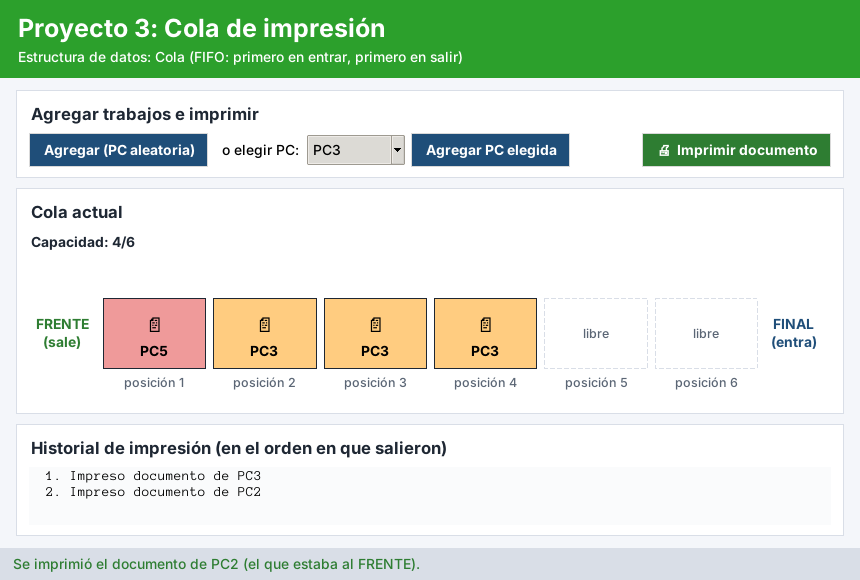
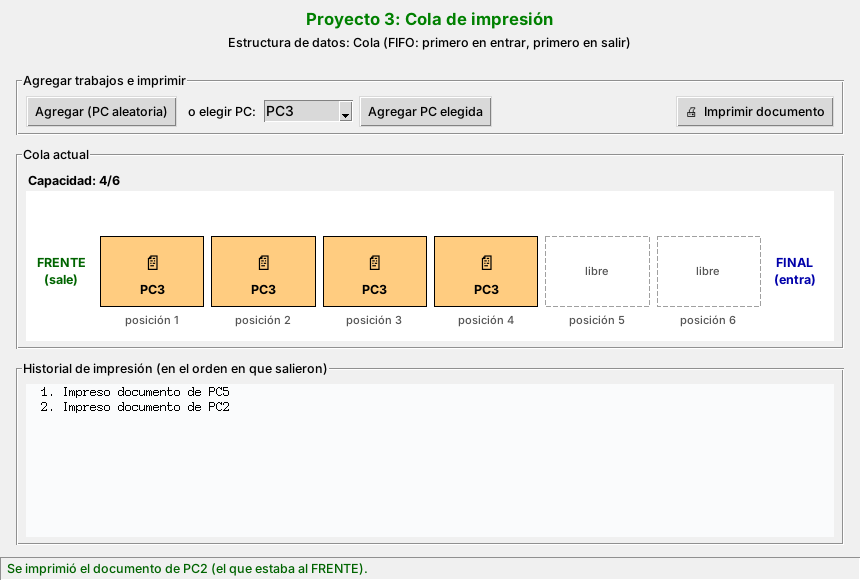
Interfaz con estilo clásico de Tkinter (como la de Resistencias)

diff --git a/interfaz/estilos.py b/interfaz/estilos.py
@@ -1,93 +1,73 @@
 """Colores, fuentes y pequeños ayudantes de Tkinter compartidos por todas las ventanas.
 
-Tenerlos en un solo lugar hace que las 6 ventanas se vean iguales y que,
-si se quiere cambiar un color, solo se cambie aquí.
+Estilo clásico de Tkinter (fondo gris, botones normales, recuadros con título),
+parecido a la ventana del proyecto de Resistencias. Tenerlo en un solo lugar
+hace que las ventanas se vean iguales y que un cambio se haga solo aquí.
 """
 
 import tkinter as tk
-from tkinter import ttk
 
 # ----------------------------------------------------------------- COLORES
-FONDO = "#F4F6FA"          # fondo general de las ventanas
-TARJETA = "#FFFFFF"        # fondo de los paneles
-BORDE = "#D9DEE7"
-TEXTO = "#1E2733"
-TEXTO_SUAVE = "#5B6675"
-PRIMARIO = "#1F4E79"       # azul de los botones principales
-PRIMARIO_HOVER = "#163A5A"
-EXITO = "#2E7D32"
-PELIGRO = "#C62828"
-RESALTE = "#F9A825"        # amarillo para resaltar (ruta, nodo encontrado, etc.)
+FONDO = "#F0F0F0"          # gris clásico de las ventanas de Windows
+TARJETA = "#F0F0F0"        # fondo de los recuadros (igual que la ventana)
+BORDE = "#A0A0A0"
+TEXTO = "#000000"
+TEXTO_SUAVE = "#555555"
+PRIMARIO = "#0000AA"
+EXITO = "#006400"
+PELIGRO = "#B00000"
+RESALTE = "#FFFF00"        # amarillo para resaltar (tope, nodo encontrado, ruta...)
 
-# Un color por proyecto (se usa en el menú y en el encabezado de cada ventana)
+# Un color por proyecto (se usa en el título de cada ventana y en los dibujos)
 COLOR_PROYECTO = {
-    1: "#1F77B4",  # Navegador - Pila
-    2: "#8C564B",  # Resistencias - Arreglos
-    3: "#2CA02C",  # Cola de impresión - Cola
-    4: "#D62728",  # Carrito - Listas
-    5: "#9467BD",  # Árbol binario
-    6: "#FF7F0E",  # Pueblos Mágicos - Grafo
+    1: "#0000FF",  # Navegador - Pila
+    2: "#8B4513",  # Resistencias - Arreglos
+    3: "#008000",  # Cola de impresión - Cola
+    4: "#FF0000",  # Carrito - Listas
+    5: "#800080",  # Árbol binario
+    6: "#FF8C00",  # Pueblos Mágicos - Grafo
 }
 
 # ----------------------------------------------------------------- FUENTES
 FUENTE = "Segoe UI"
-F_TITULO = (FUENTE, 18, "bold")
-F_SUBTITULO = (FUENTE, 12, "bold")
-F_NORMAL = (FUENTE, 10)
-F_NEGRITA = (FUENTE, 10, "bold")
-F_PEQUENA = (FUENTE, 9)
-F_MONO = ("Consolas", 10)
+F_TITULO = (FUENTE, 12, "bold")
+F_SUBTITULO = (FUENTE, 10, "bold")
+F_NORMAL = (FUENTE, 9)
+F_NEGRITA = (FUENTE, 9, "bold")
+F_PEQUENA = (FUENTE, 8)
+F_MONO = ("Consolas", 9)
 
 
 def configurar_ttk(raiz: tk.Misc) -> None:
-    """Da a los Treeview y Combobox de ttk un estilo parecido al resto."""
-    estilo = ttk.Style(raiz)
-    try:
-        estilo.theme_use("clam")
-    except tk.TclError:
-        pass
-    estilo.configure("Treeview", font=F_NORMAL, rowheight=24, background=TARJETA,
-                     fieldbackground=TARJETA, foreground=TEXTO)
-    estilo.configure("Treeview.Heading", font=F_NEGRITA, background=BORDE, foreground=TEXTO)
-    estilo.map("Treeview", background=[("selected", PRIMARIO)],
-               foreground=[("selected", "white")])
-    estilo.configure("TCombobox", padding=4)
+    """Se deja el tema de ttk que trae el sistema (el normal de Windows)."""
+    return None
 
 
 def encabezado(ventana: tk.Misc, numero: int, titulo: str, estructura: str) -> tk.Frame:
-    """Barra de color con el número, nombre del proyecto y la estructura usada."""
-    barra = tk.Frame(ventana, bg=COLOR_PROYECTO[numero], padx=16, pady=10)
+    """Título sencillo con el número, nombre del proyecto y la estructura usada."""
+    barra = tk.Frame(ventana, bg=FONDO, padx=10, pady=6)
     barra.pack(fill="x")
     tk.Label(barra, text=f"Proyecto {numero}: {titulo}", font=F_TITULO,
-             bg=COLOR_PROYECTO[numero], fg="white").pack(anchor="w")
+             bg=FONDO, fg=COLOR_PROYECTO[numero]).pack()
     tk.Label(barra, text=f"Estructura de datos: {estructura}", font=F_NORMAL,
-             bg=COLOR_PROYECTO[numero], fg="white").pack(anchor="w")
+             bg=FONDO, fg=TEXTO).pack()
     return barra
 
 
-def boton(padre: tk.Misc, texto: str, comando, color: str = PRIMARIO, **kwargs) -> tk.Button:
-    """Botón plano con color de fondo y texto blanco."""
-    b = tk.Button(padre, text=texto, command=comando, bg=color, fg="white",
-                  activebackground=PRIMARIO_HOVER, activeforeground="white",
-                  font=F_NEGRITA, relief="flat", bd=0, padx=12, pady=6,
-                  cursor="hand2", disabledforeground="#E0E0E0", **kwargs)
-    return b
+def boton(padre: tk.Misc, texto: str, comando, color: str = None, **kwargs) -> tk.Button:
+    """Botón normal de Tkinter (el parámetro color se ignora para mantener el estilo clásico)."""
+    return tk.Button(padre, text=texto, command=comando, font=F_NORMAL, padx=6, **kwargs)
 
 
-def panel(padre: tk.Misc, titulo: str = "") -> tk.Frame:
-    """Recuadro blanco con borde y un título opcional."""
-    marco = tk.Frame(padre, bg=TARJETA, highlightbackground=BORDE,
-                     highlightthickness=1, padx=12, pady=10)
-    if titulo:
-        tk.Label(marco, text=titulo, font=F_SUBTITULO, bg=TARJETA,
-                 fg=TEXTO).pack(anchor="w", pady=(0, 6))
-    return marco
+def panel(padre: tk.Misc, titulo: str = "") -> tk.LabelFrame:
+    """Recuadro clásico con título (LabelFrame)."""
+    return tk.LabelFrame(padre, text=titulo, font=F_NORMAL, bg=TARJETA, padx=8, pady=6)
 
 
 def barra_estado(ventana: tk.Misc) -> tk.Label:
     """Etiqueta inferior donde cada ventana escribe lo que acaba de pasar."""
     etiqueta = tk.Label(ventana, text="Listo.", anchor="w", font=F_NORMAL,
-                        bg=BORDE, fg=TEXTO, padx=12, pady=6)
+                        bg=FONDO, fg=TEXTO, relief="sunken", bd=1, padx=6, pady=2)
     etiqueta.pack(fill="x", side="bottom")
     return etiqueta
 

diff --git a/Main1.py b/Main1.py
@@ -50,58 +50,34 @@ class MenuPrincipal:
     def __init__(self):
         self.raiz = tk.Tk()
         self.raiz.title("Proyecto Integrador - Estructuras de Datos")
-        self.raiz.geometry("980x660")
-        self.raiz.minsize(900, 640)
+        self.raiz.geometry("520x420")
         self.raiz.configure(bg=e.FONDO)
         e.configurar_ttk(self.raiz)
 
         self.ventanas = {}           # número de proyecto -> ventana abierta
         self.proceso_resistencias = None
 
-        # Encabezado
-        arriba = tk.Frame(self.raiz, bg=e.PRIMARIO, padx=24, pady=16)
-        arriba.pack(fill="x")
-        tk.Label(arriba, text="Proyecto Integrador de Estructuras de Datos",
-                 font=e.F_TITULO, bg=e.PRIMARIO, fg="white").pack(anchor="w")
-        tk.Label(arriba, text="Elige un proyecto para abrirlo. Puedes tener varios abiertos a la vez.",
-                 font=e.F_NORMAL, bg=e.PRIMARIO, fg="white").pack(anchor="w")
+        tk.Label(self.raiz, text="Proyecto Integrador de Estructuras de Datos",
+                 font=e.F_TITULO, bg=e.FONDO).pack(pady=(12, 2))
+        tk.Label(self.raiz, text="Selecciona un proyecto:", font=e.F_NORMAL,
+                 bg=e.FONDO).pack(pady=(0, 8))
 
-        # Tarjetas 3 x 2
-        rejilla = tk.Frame(self.raiz, bg=e.FONDO, padx=18, pady=18)
-        rejilla.pack(fill="both", expand=True)
-        for i, datos in enumerate(PROYECTOS):
-            fila, columna = divmod(i, 3)
-            rejilla.columnconfigure(columna, weight=1, uniform="col")
-            rejilla.rowconfigure(fila, weight=1, uniform="fila")
-            self._tarjeta(rejilla, *datos).grid(row=fila, column=columna, sticky="nsew",
-                                                padx=8, pady=8)
+        # Un botón por proyecto, uno debajo del otro
+        marco = tk.Frame(self.raiz, bg=e.FONDO)
+        marco.pack()
+        for numero, titulo, estructura, descripcion in PROYECTOS:
+            tk.Button(marco, text=f"{numero}. {titulo}", width=28, font=e.F_NORMAL,
+                      fg=e.COLOR_PROYECTO[numero],
+                      command=lambda n=numero: self.abrir(n)).grid(
+                row=numero - 1, column=0, padx=5, pady=4, sticky="w")
+            tk.Label(marco, text=estructura, font=e.F_NORMAL, bg=e.FONDO,
+                     anchor="w").grid(row=numero - 1, column=1, padx=5, sticky="w")
 
-        # Pie
-        abajo = tk.Frame(self.raiz, bg=e.FONDO, padx=26)
-        abajo.pack(fill="x", pady=(0, 14))
-        tk.Label(abajo, text="Tip: con  python Main1.py --consola  se corren las versiones "
-                             "originales en la terminal.",
-                 font=e.F_PEQUENA, bg=e.FONDO, fg=e.TEXTO_SUAVE).pack(side="left")
-        e.boton(abajo, "Salir", self.raiz.destroy, color=e.PELIGRO).pack(side="right")
-
-    def _tarjeta(self, padre, numero, titulo, estructura, descripcion):
-        color = e.COLOR_PROYECTO[numero]
-        tarjeta = tk.Frame(padre, bg=e.TARJETA, highlightbackground=e.BORDE, highlightthickness=1)
-        tk.Frame(tarjeta, bg=color, height=6).pack(fill="x")
-        contenido = tk.Frame(tarjeta, bg=e.TARJETA, padx=14, pady=10)
-        contenido.pack(fill="both", expand=True)
-
-        tk.Label(contenido, text=str(numero), font=(e.FUENTE, 26, "bold"), bg=e.TARJETA,
-                 fg=color).pack(anchor="w")
-        tk.Label(contenido, text=titulo, font=e.F_SUBTITULO, bg=e.TARJETA,
-                 fg=e.TEXTO).pack(anchor="w")
-        tk.Label(contenido, text=estructura, font=e.F_NEGRITA, bg=e.TARJETA,
-                 fg=color).pack(anchor="w")
-        tk.Label(contenido, text=descripcion, font=e.F_PEQUENA, bg=e.TARJETA, fg=e.TEXTO_SUAVE,
-                 wraplength=260, justify="left").pack(anchor="w", pady=(4, 8))
-        e.boton(contenido, "Abrir", lambda: self.abrir(numero),
-                color=color).pack(anchor="w", side="bottom")
-        return tarjeta
+        tk.Label(self.raiz, text="Tip: con  python Main1.py --consola  se corren\n"
+                                 "las versiones originales en la terminal.",
+                 font=e.F_PEQUENA, bg=e.FONDO, fg=e.TEXTO_SUAVE).pack(pady=(14, 6))
+        tk.Button(self.raiz, text="Salir", width=10, font=e.F_NORMAL,
+                  command=self.raiz.destroy).pack(pady=6)
 
     def abrir(self, numero):
         # El proyecto 2 ya era una ventana Tkinter completa: se ejecuta su

diff --git a/interfaz/ventana_pueblos.py b/interfaz/ventana_pueblos.py
@@ -76,7 +76,7 @@ class VentanaPueblos:
         # ------------------------------------------------ dibujo del grafo
         der = e.panel(cuerpo, "Mapa del grafo (distancias en km)")
         der.pack(side="left", fill="both", expand=True)
-        self.canvas = tk.Canvas(der, bg=e.TARJETA, highlightthickness=0)
+        self.canvas = tk.Canvas(der, bg="white", highlightthickness=0)
         self.canvas.pack(fill="both", expand=True)
         self.canvas.bind("<Configure>", lambda _evento: self.dibujar())
 
@@ -141,7 +141,7 @@ class VentanaPueblos:
                 c.create_line(x1, y1, x2, y2, width=5 if en_ruta else 2,
                               fill=e.COLOR_PROYECTO[6] if en_ruta else "#B0BEC5")
                 mx, my = (x1 + x2) / 2, (y1 + y2) / 2
-                c.create_rectangle(mx - 22, my - 10, mx + 22, my + 10, fill=e.TARJETA,
+                c.create_rectangle(mx - 22, my - 10, mx + 22, my + 10, fill="white",
                                    outline=e.COLOR_PROYECTO[6] if en_ruta else e.BORDE)
                 c.create_text(mx, my, text=f"{km_texto(arista.distancia_km)} km",
                               font=e.F_PEQUENA, fill=e.TEXTO)

diff --git a/interfaz/ventana_arbol.py b/interfaz/ventana_arbol.py
@@ -69,7 +69,7 @@ class VentanaArbol:
         self.lbl_resultado = tk.Label(der, text="", bg=e.TARJETA, font=e.F_MONO,
                                       fg=e.PRIMARIO, anchor="w", justify="left", wraplength=640)
         self.lbl_resultado.pack(fill="x")
-        self.canvas = tk.Canvas(der, bg=e.TARJETA, highlightthickness=0)
+        self.canvas = tk.Canvas(der, bg="white", highlightthickness=0)
         self.canvas.pack(fill="both", expand=True)
         self.canvas.bind("<Configure>", lambda _evento: self.dibujar())
 

diff --git a/interfaz/ventana_navegador.py b/interfaz/ventana_navegador.py
@@ -90,7 +90,7 @@ class VentanaNavegador:
     def _crear_pila(self, padre, titulo):
         marco = e.panel(padre, titulo)
         marco.pack(side="left", fill="both", expand=True, padx=(0, 8))
-        canvas = tk.Canvas(marco, bg=e.TARJETA, highlightthickness=0,
+        canvas = tk.Canvas(marco, bg="white", highlightthickness=0,
                            height=ALTO_CAJA * MAX_CAJAS + 20)
         canvas.pack(fill="both", expand=True)
         canvas.bind("<Configure>", lambda _evento: self.actualizar())

diff --git a/interfaz/ventana_cola.py b/interfaz/ventana_cola.py
@@ -52,7 +52,7 @@ class VentanaCola:
         dibujo.pack(fill="x", pady=10)
         self.lbl_capacidad = tk.Label(dibujo, font=e.F_NEGRITA, bg=e.TARJETA, fg=e.TEXTO)
         self.lbl_capacidad.pack(anchor="w")
-        self.canvas = tk.Canvas(dibujo, height=150, bg=e.TARJETA, highlightthickness=0)
+        self.canvas = tk.Canvas(dibujo, height=150, bg="white", highlightthickness=0)
         self.canvas.pack(fill="x")
         self.canvas.bind("<Configure>", lambda _evento: self.dibujar())
 

diff --git a/docs/arquitectura.md b/docs/arquitectura.md
@@ -34,8 +34,8 @@ A esto se le llama **separar la lógica de la presentación**: la estructura de 
 
 ## 3. `Main1.py` paso a paso
 
-1. **`PROYECTOS`**: lista con número, nombre, estructura y descripción de cada proyecto. Con ella se dibujan las 6 tarjetas del menú (y el menú de consola), así no se repite texto.
-2. **`MenuPrincipal.__init__`**: crea la ventana raíz (`tk.Tk()`), el encabezado azul y una rejilla de 3 × 2 tarjetas.
+1. **`PROYECTOS`**: lista con número, nombre, estructura y descripción de cada proyecto. Con ella se crean los 6 botones del menú (y el menú de consola), así no se repite texto.
+2. **`MenuPrincipal.__init__`**: crea la ventana raíz (`tk.Tk()`), el título y los 6 botones (uno debajo del otro, cada uno con su estructura de datos al lado) con `grid()`.
 3. **`MenuPrincipal.abrir(numero)`**:
    - Si es el **2**, ejecuta `proyectos/p2_resistencias.py` con `subprocess.Popen`, porque ese archivo ya crea su propia ventana Tkinter al ejecutarse (crea `tk.Tk()` desde el inicio del archivo, así que no se puede importar sin que se abra).
    - Si la ventana del proyecto **ya está abierta**, solo la trae al frente (no abre otra).
@@ -51,7 +51,7 @@ class VentanaX:
     def __init__(self, padre):
         self.objeto = ClaseOriginal()           # 1. se crea el objeto del proyecto
         self.ventana = tk.Toplevel(padre)       # 2. se crea la ventana
-        e.encabezado(...)                       # 3. barra de color con el título
+        e.encabezado(...)                       # 3. título del proyecto
         self.estado = e.barra_estado(...)       # 4. barra inferior de mensajes
         ...                                     # 5. botones, tablas y Canvas
 
@@ -65,7 +65,7 @@ class VentanaX:
 - Los **mensajes** que en consola eran `print(...)` aquí aparecen en la **barra de estado** de abajo (verde si salió bien y rojo si hubo un error).
 - Los métodos originales todavía hacen sus `print`, que aparecen en la terminal desde donde se ejecutó `Main1.py`. Es normal y no afecta.
 - Los **dibujos** (pilas, cola, árbol, grafo) se hacen con `tk.Canvas` leyendo el estado del objeto: `pila.elementos`, `cola.items`, `arbol.raiz`, `grafo.adyacencia`.
-- **`estilos.py`** tiene los colores y funciones como `boton()`, `panel()` y `encabezado()` para que las 6 ventanas se vean iguales.
+- **`estilos.py`** tiene el estilo clásico de Tkinter (fondo gris, botones normales, recuadros `LabelFrame` con título), los colores y funciones como `boton()`, `panel()` y `encabezado()` para que las 6 ventanas se vean iguales.
 
 ## 5. ¿Por qué no se pegó todo en un solo `.py`?
 
